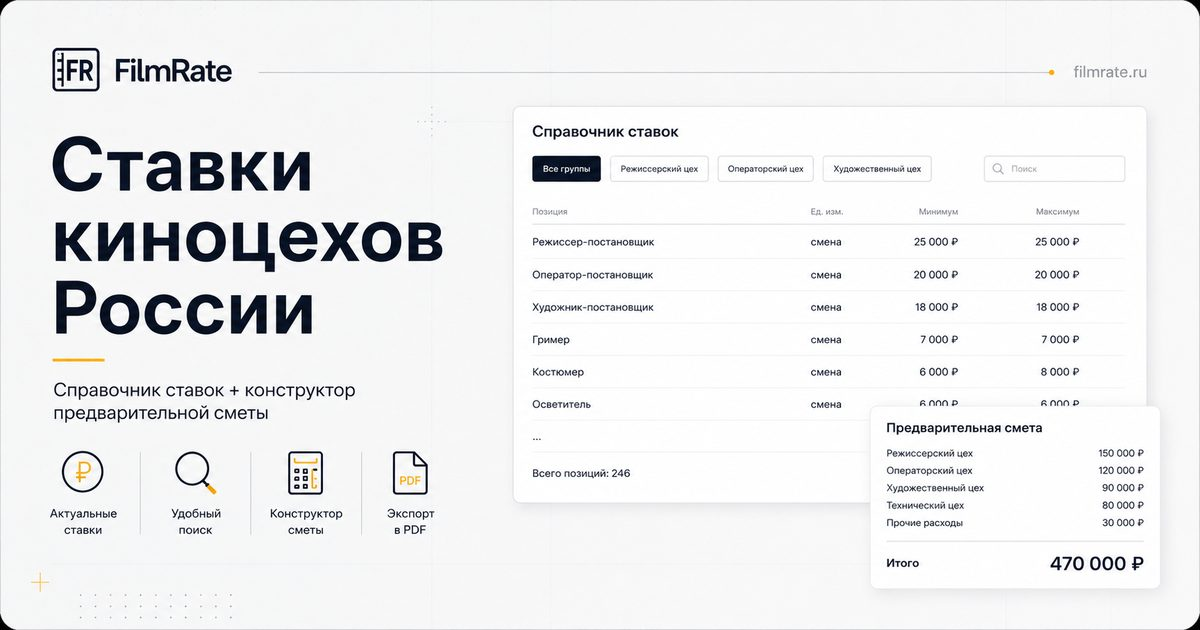
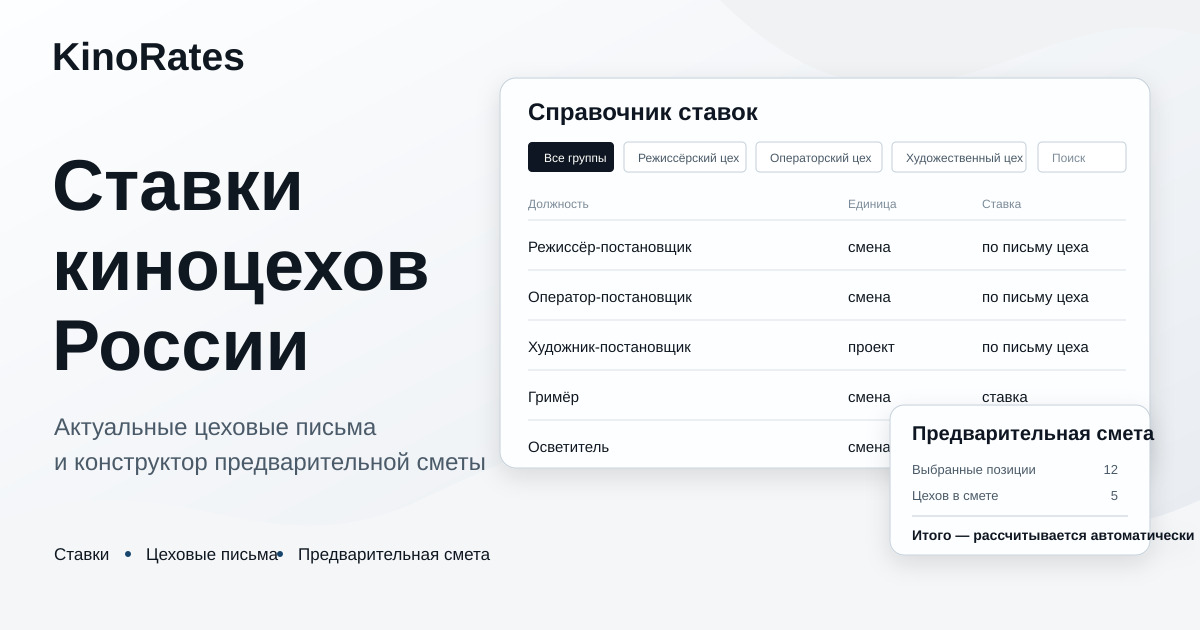
Complete KinoRates rebrand and OG image

diff --git a/index.html b/index.html
@@ -3,42 +3,42 @@
 <head>
 <meta charset="utf-8">
 <meta name="viewport" content="width=device-width, initial-scale=1">
-<title>FilmRate — ставки киноцехов и конструктор сметы</title>
+<title>KinoRates — ставки киноцехов и конструктор сметы</title>
 <meta name="description" content="Ставки киноцехов России, актуальные цеховые письма и конструктор предварительной сметы.">
 <meta name="robots" content="index, follow, max-image-preview:large">
 <meta name="theme-color" content="#E7EBF0">
-<link rel="canonical" href="https://filmrate.ru/">
+<link rel="canonical" href="https://kinorates.ru/">
 <meta property="og:type" content="website">
 <meta property="og:locale" content="ru_RU">
-<meta property="og:site_name" content="FilmRate">
-<meta property="og:title" content="FilmRate — ставки киноцехов и конструктор сметы">
+<meta property="og:site_name" content="KinoRates">
+<meta property="og:title" content="KinoRates — ставки киноцехов и конструктор сметы">
 <meta property="og:description" content="Ставки киноцехов России, актуальные цеховые письма и конструктор предварительной сметы.">
-<meta property="og:url" content="https://filmrate.ru/">
-<meta property="og:image" content="https://filmrate.ru/og-image.jpg">
+<meta property="og:url" content="https://kinorates.ru/">
+<meta property="og:image" content="https://kinorates.ru/og-image.jpg">
 <meta property="og:image:width" content="1200">
 <meta property="og:image:height" content="630">
 <meta property="og:image:type" content="image/jpeg">
 <meta name="twitter:card" content="summary_large_image">
-<meta name="twitter:title" content="FilmRate — ставки киноцехов и конструктор сметы">
+<meta name="twitter:title" content="KinoRates — ставки киноцехов и конструктор сметы">
 <meta name="twitter:description" content="Ставки киноцехов России, актуальные цеховые письма и конструктор предварительной сметы.">
-<meta name="twitter:image" content="https://filmrate.ru/og-image.jpg">
+<meta name="twitter:image" content="https://kinorates.ru/og-image.jpg">
 <script type="application/ld+json">
 {
   "@context": "https://schema.org",
   "@graph": [
     {
       "@type": "WebSite",
-      "@id": "https://filmrate.ru/#website",
-      "url": "https://filmrate.ru/",
-      "name": "FilmRate",
+      "@id": "https://kinorates.ru/#website",
+      "url": "https://kinorates.ru/",
+      "name": "KinoRates",
       "description": "Рекомендованные ставки специалистов кинопроизводства России, актуальные цеховые письма и конструктор предварительной сметы",
       "inLanguage": "ru-RU"
     },
     {
       "@type": "WebApplication",
-      "@id": "https://filmrate.ru/#application",
-      "url": "https://filmrate.ru/",
-      "name": "FilmRate — справочник ставок и конструктор сметы",
+      "@id": "https://kinorates.ru/#application",
+      "url": "https://kinorates.ru/",
+      "name": "KinoRates — справочник ставок и конструктор сметы",
       "description": "Рекомендованные ставки специалистов кинопроизводства России, актуальные цеховые письма и конструктор предварительной сметы.",
       "applicationCategory": "BusinessApplication",
       "operatingSystem": "Any",
@@ -51,7 +51,7 @@
         "price": "0",
         "priceCurrency": "RUB"
       },
-      "isPartOf": {"@id": "https://filmrate.ru/#website"}
+      "isPartOf": {"@id": "https://kinorates.ru/#website"}
     }
   ]
 }
@@ -401,7 +401,7 @@ header .eyebrow{padding-right:390px}
     <div class="regional-kicker">Регионы</div>
     <div class="regional-copy">
       <h3 id="regionalTitle">Как применять ставки в регионах</h3>
-      <p>FilmRate не уменьшает ставки автоматически по региональному признаку. В исследовании МПК 79% участников высказались за одинаковую стоимость работы в Москве и регионах, а все респонденты — за обязательную оплату переработок. Это ориентир для переговоров, а не обязательный тариф.</p>
+      <p>KinoRates не уменьшает ставки автоматически по региональному признаку. В исследовании МПК 79% участников высказались за одинаковую стоимость работы в Москве и регионах, а все респонденты — за обязательную оплату переработок. Это ориентир для переговоров, а не обязательный тариф.</p>
     </div>
     <div class="regional-figure"><b>172</b><span>специалиста участвовали в исследовании</span></div>
     <a href="https://ktr.su/content/news/detail.php?ELEMENT_ID=57863" target="_blank" rel="noopener">Исследование КТР →</a>
@@ -526,7 +526,7 @@ header .eyebrow{padding-right:390px}
 </dialog>
 <dialog class="feedback-dialog updates-dialog" id="updatesDialog">
   <div class="feedback-inner">
-    <div class="feedback-top"><div><h2>Обновления FilmRate</h2><p>Что изменилось в базе ставок и в самом сервисе.</p></div><button class="dialog-x" id="updatesClose" aria-label="Закрыть">×</button></div>
+    <div class="feedback-top"><div><h2>Обновления KinoRates</h2><p>Что изменилось в базе ставок и в самом сервисе.</p></div><button class="dialog-x" id="updatesClose" aria-label="Закрыть">×</button></div>
     <div class="updates-list" id="updatesList"></div>
   </div>
 </dialog>
@@ -546,13 +546,13 @@ header .eyebrow{padding-right:390px}
 </div>
 
 <div class="cookie-banner" id="cookieBanner" role="dialog" aria-label="Настройки аналитики" aria-live="polite" hidden>
-  <div class="cookie-copy"><b>Статистика помогает улучшать FilmRate</b><p>Мы используем cookie и Яндекс Метрику для анализа посещаемости. Метрика включится только с вашего разрешения. <button type="button" data-open-privacy>Подробнее</button></p></div>
+  <div class="cookie-copy"><b>Статистика помогает улучшать KinoRates</b><p>Мы используем cookie и Яндекс Метрику для анализа посещаемости. Метрика включится только с вашего разрешения. <button type="button" data-open-privacy>Подробнее</button></p></div>
   <div class="cookie-actions"><button type="button" id="cookieReject">Отказаться</button><button class="primary" type="button" id="cookieAccept">Разрешить</button></div>
 </div>
 
 <dialog class="privacy-dialog" id="privacyDialog">
   <div class="privacy-content">
-    <div class="privacy-top"><div><h2>Конфиденциальность и cookie</h2><p>Краткая информация о данных, которые использует FilmRate.</p></div><button class="dialog-x" id="privacyClose" aria-label="Закрыть">×</button></div>
+    <div class="privacy-top"><div><h2>Конфиденциальность и cookie</h2><p>Краткая информация о данных, которые использует KinoRates.</p></div><button class="dialog-x" id="privacyClose" aria-label="Закрыть">×</button></div>
     <h3>Статистика посещений</h3><p>С вашего разрешения сайт подключает Яндекс Метрику. Она использует cookie и локальное хранилище браузера, чтобы собирать обезличенную статистику: посещённые страницы, источник перехода, характеристики устройства и действия на сайте. До согласия счётчик не загружается.</p>
     <h3>Обратная связь</h3><p>Если вы добровольно отправляете сообщение, обрабатываются указанные вами email, текст обращения и адрес страницы. Эти данные используются только для рассмотрения обращения и передаются через сервис FormSubmit.</p>
     <h3>Кому могут передаваться данные</h3><ul><li>ООО «Яндекс» — при разрешённой аналитике;</li><li>FormSubmit — при отправке формы обратной связи;</li><li>GitHub Pages — как техническая площадка размещения сайта.</li></ul>
@@ -923,8 +923,8 @@ document.getElementById('xlsx').addEventListener('click',async()=>{
   try{
     if(!window.ExcelJS)throw new Error('ExcelJS unavailable');
     const rows=budgetRows(),workbook=new ExcelJS.Workbook(),sheet=workbook.addWorksheet('Смета');
-    workbook.creator='FilmRate';workbook.title='FilmRate — Предварительная смета';workbook.subject='Предварительный расчёт ставок кинопроизводства';workbook.company='FilmRate';workbook.created=new Date();
-    sheet.mergeCells('A1:N1');sheet.getCell('A1').value='FilmRate · Предварительная смета';
+    workbook.creator='KinoRates';workbook.title='KinoRates — Предварительная смета';workbook.subject='Предварительный расчёт ставок кинопроизводства';workbook.company='KinoRates';workbook.created=new Date();
+    sheet.mergeCells('A1:N1');sheet.getCell('A1').value='KinoRates · Предварительная смета';
     sheet.getCell('A1').font={name:'Arial',size:16,bold:true,color:{argb:'FF181B18'}};sheet.getCell('A1').alignment={vertical:'middle'};sheet.getRow(1).height=30;
     sheet.mergeCells('A2:N2');sheet.getCell('A2').value='Ставки носят рекомендательный характер. Финальная ставка определяется сторонами по договорённости.';
     sheet.getCell('A2').font={name:'Arial',size:10,bold:true,color:{argb:'FFAD3C36'}};sheet.getRow(2).height=24;
@@ -956,13 +956,13 @@ document.getElementById('pdf').addEventListener('click',()=>{
     const net=rows.reduce((s,r)=>s+r.net,0),gross=rows.reduce((s,r)=>s+r.gross,0);
     body.push(['','','','','','','', 'ИТОГО',money(net),money(gross)]);
     const doc={pageSize:'A4',pageOrientation:'landscape',pageMargins:[28,34,28,32],
-      info:{title:'FilmRate — Предварительная смета',author:'FilmRate',subject:'Предварительный расчёт ставок кинопроизводства',creator:'FilmRate'},defaultStyle:{font:'Roboto',fontSize:7.5,color:'#181b18'},
-      content:[{text:'FILMRATE',fontSize:7.5,bold:true,color:'#2457f5',characterSpacing:1.2,margin:[0,0,0,3]},{text:'Предварительная смета',fontSize:17,bold:true,margin:[0,0,0,5]},
+      info:{title:'KinoRates — Предварительная смета',author:'KinoRates',subject:'Предварительный расчёт ставок кинопроизводства',creator:'KinoRates'},defaultStyle:{font:'Roboto',fontSize:7.5,color:'#181b18'},
+      content:[{text:'KINORATES',fontSize:7.5,bold:true,color:'#2457f5',characterSpacing:1.2,margin:[0,0,0,3]},{text:'Предварительная смета',fontSize:17,bold:true,margin:[0,0,0,5]},
         {text:'Все ставки носят рекомендательный характер. Финальная ставка определяется продюсером и контрагентом по договорённости.',fontSize:8.5,bold:true,color:'#ad3c36',margin:[0,0,0,14]},
         {table:{headerRows:1,widths:[16,126,66,38,52,56,32,28,62,62],body},layout:{fillColor:(i)=>i===0?'#252925':i===body.length-1?'#f1f3ef':null,hLineColor:()=> '#dfe2dc',vLineColor:()=> '#dfe2dc',paddingLeft:()=>4,paddingRight:()=>4,paddingTop:()=>5,paddingBottom:()=>5},
           style:'budgetTable'}],
       styles:{budgetTable:{fontSize:7}},
-      footer:(current,pageCount)=>({columns:[{text:'FilmRate',alignment:'left'},{text:`${current} / ${pageCount}`,alignment:'right'}],margin:[28,8,28,0],fontSize:7,color:'#818781'})};
+      footer:(current,pageCount)=>({columns:[{text:'KinoRates',alignment:'left'},{text:`${current} / ${pageCount}`,alignment:'right'}],margin:[28,8,28,0],fontSize:7,color:'#818781'})};
     pdfMake.createPdf(doc).download(exportName('pdf'),()=>{btn.textContent='готово ✓';setTimeout(done,1400)});
   }catch(err){console.error(err);btn.textContent='ошибка';setTimeout(done,1800)}
 });
@@ -1016,7 +1016,7 @@ document.getElementById('customForm').addEventListener('submit',e=>{
 });
 
 // Журнал обновлений: данные лежат отдельно в updates.js, чтобы их можно было дополнять автоматически.
-const updatesDialog=document.getElementById('updatesDialog'),updates=[...(Array.isArray(window.FILMRATE_UPDATES)?window.FILMRATE_UPDATES:[]),...(Array.isArray(window.FILMRATE_CHECKS)?window.FILMRATE_CHECKS:[])].sort((a,b)=>String(b.date).localeCompare(String(a.date)));
+const updatesDialog=document.getElementById('updatesDialog'),updates=[...(Array.isArray(window.KINORATES_UPDATES)?window.KINORATES_UPDATES:[]),...(Array.isArray(window.KINORATES_CHECKS)?window.KINORATES_CHECKS:[])].sort((a,b)=>String(b.date).localeCompare(String(a.date)));
 const safeUpdateUrl=url=>{if(typeof url!=='string'||!url.trim())return'';try{const u=new URL(url);return u.protocol==='https:'?u.href:''}catch(e){return''}};
 const updatesEscape=value=>String(value??'').replace(/[&<>"']/g,char=>({'&':'&amp;','<':'&lt;','>':'&gt;','"':'&quot;',"'":'&#39;'}[char]));
 document.getElementById('updatesCount').textContent=updates.length;

diff --git a/updates.js b/updates.js
@@ -1,10 +1,10 @@
-window.FILMRATE_UPDATES = [
+window.KINORATES_UPDATES = [
   {
     date: "2026-08-11",
     dateLabel: "11 августа 2026",
     type: "service",
     title: "Защищённое соединение и управление аналитикой",
-    text: "FilmRate переведён на HTTPS. Яндекс Метрика теперь запускается только после согласия посетителя."
+    text: "KinoRates переведён на HTTPS. Яндекс Метрика теперь запускается только после согласия посетителя."
   },
   {
     date: "2026-08-10",
@@ -25,7 +25,7 @@ window.FILMRATE_UPDATES = [
     date: "2026-07-30",
     dateLabel: "30 июля 2026",
     type: "data",
-    title: "Собрана первая версия базы FilmRate",
+    title: "Собрана первая версия базы KinoRates",
     text: "Объединены справочник МПК и реестр «Точно продюсер»: 420 позиций в 23 цехах и департаментах.",
     url: "https://kinoprofsoyuz.ru/stranicza-stavok-po-czeham/"
   }

diff --git a/check-log.js b/check-log.js
@@ -1,1 +1,1 @@
-window.FILMRATE_CHECKS = [];
+window.KINORATES_CHECKS = [];

diff --git a/SECURITY_AUDIT.md b/SECURITY_AUDIT.md
@@ -1,4 +1,4 @@
-# FilmRate — первичный аудит безопасности
+# KinoRates — первичный аудит безопасности
 
 Дата: 10 августа 2026 года  
 Область проверки: `index.html`, клиентские расчёты, локальное хранение, экспорт Excel/PDF, форма обратной связи и внешние зависимости.
